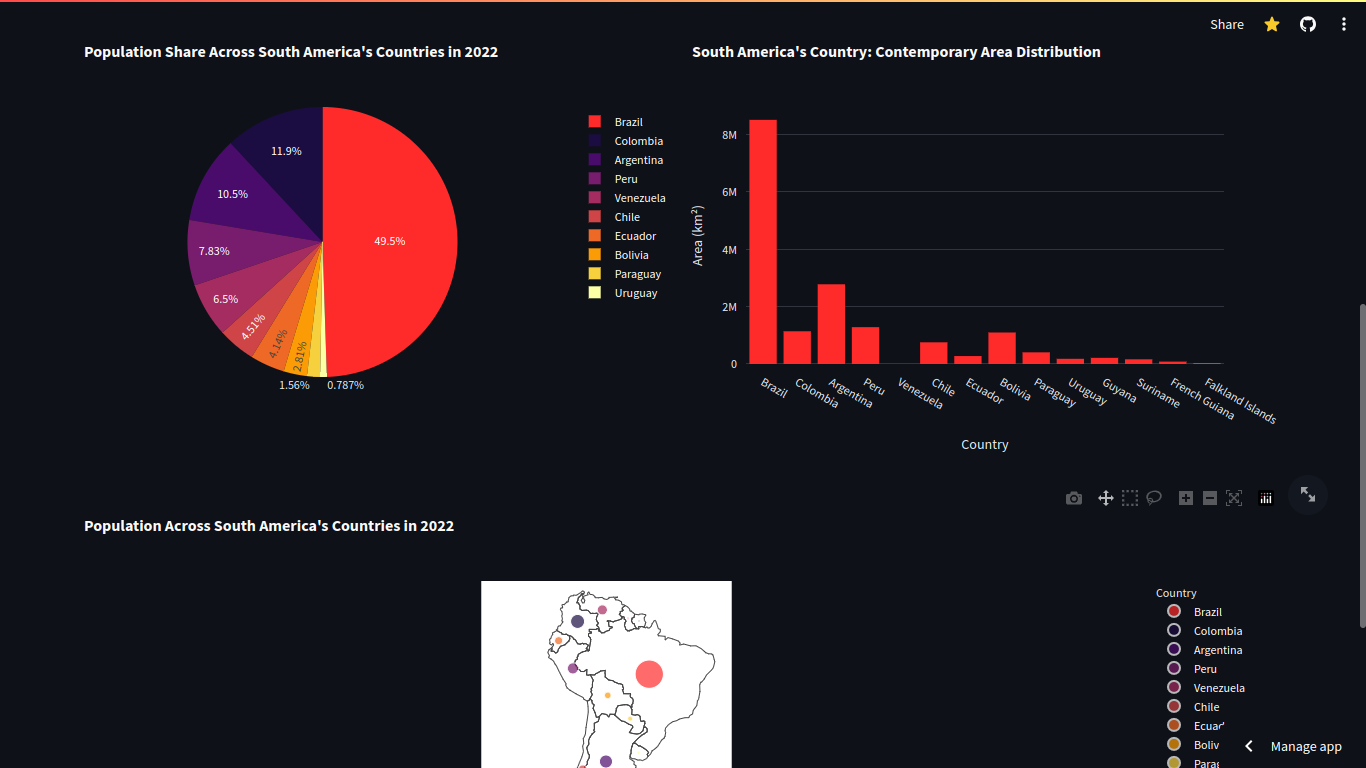
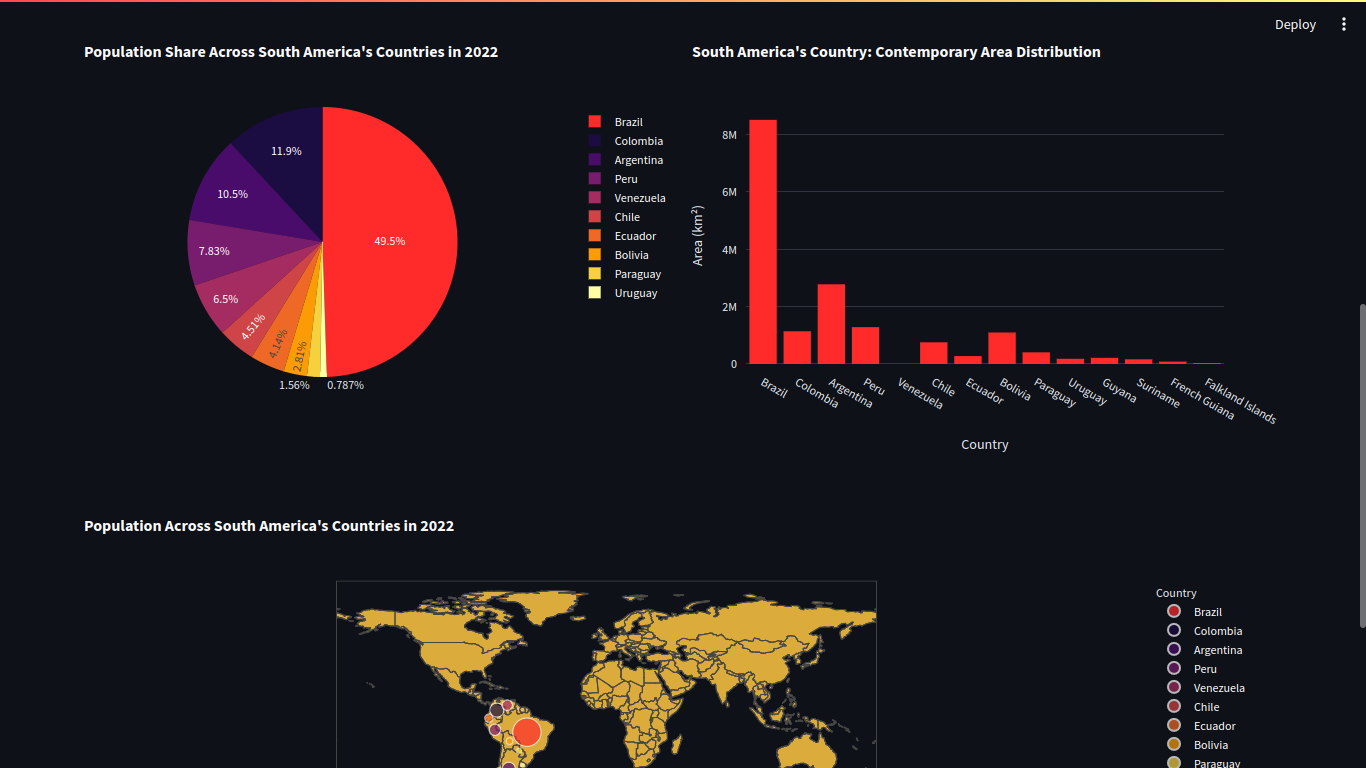
.

diff --git a/dashboard.py b/dashboard.py
@@ -72,10 +72,20 @@ fig_date = px.bar(df_filtered_continent, y = 'Area (km²)', x ='Country',
                    color_discrete_sequence=px.colors.sequential.Inferno)
 col2_row3.plotly_chart(fig_date, use_container_width=True)
 
-scope  = str(continent).lower()
-
 fig_date = px.scatter_geo(df_filtered_continent, locations='CCA3', color="Country", hover_name="Country",
                            size = '2022 Population', title = ('Population Across ' + continent + '\'s Countries in 2022'),
-                           color_discrete_sequence=px.colors.sequential.Inferno, scope = scope,  projection = 'equirectangular')
+                           color_discrete_sequence=px.colors.sequential.Inferno,  projection = 'equirectangular')
+fig_date.update_geos(
+    projection_scale=1,
+    showcountries=True,
+    showcoastlines = True,
+    showocean = True,
+    showland = True,
+    showsubunits = True,
+    bgcolor = '#0e1117',
+    landcolor = '#dbab3b',
+    oceancolor = '#0e1117'
+
+)
 st.plotly_chart(fig_date, use_container_width=True)
 

diff --git a/README.md b/README.md
@@ -1,10 +1,10 @@
 # World Population Dashboard
 
-Welcome to the World Population Dashboard repository! This dashboard application is built with Streamlit and provides insightful information about world population trends.
+Welcome to the World Population Dashboard repository! This dashboard application is built with Streamlit and provides insightful information about world population.
 
 ## About the Dashboard
 
-This dashboard aims to visualize various aspects of world population data including historical trends, population distribution by region, and projections for the future. It offers an intuitive interface for users to interact with the data and gain valuable insights.
+This dashboard aims to visualize various aspects of world population data. It offers an intuitive interface for users to interact with the data and gain valuable insights.
 
 ## How to Use
 
@@ -39,7 +39,7 @@ To run this dashboard locally, you'll need to have Python installed on your syst
 
 3. Run the Streamlit app:
    ```
-   streamlit run app.py
+   streamlit run dashboard.py
    ```
 
 4. Access the dashboard in your web browser at `http://localhost:8501`.
